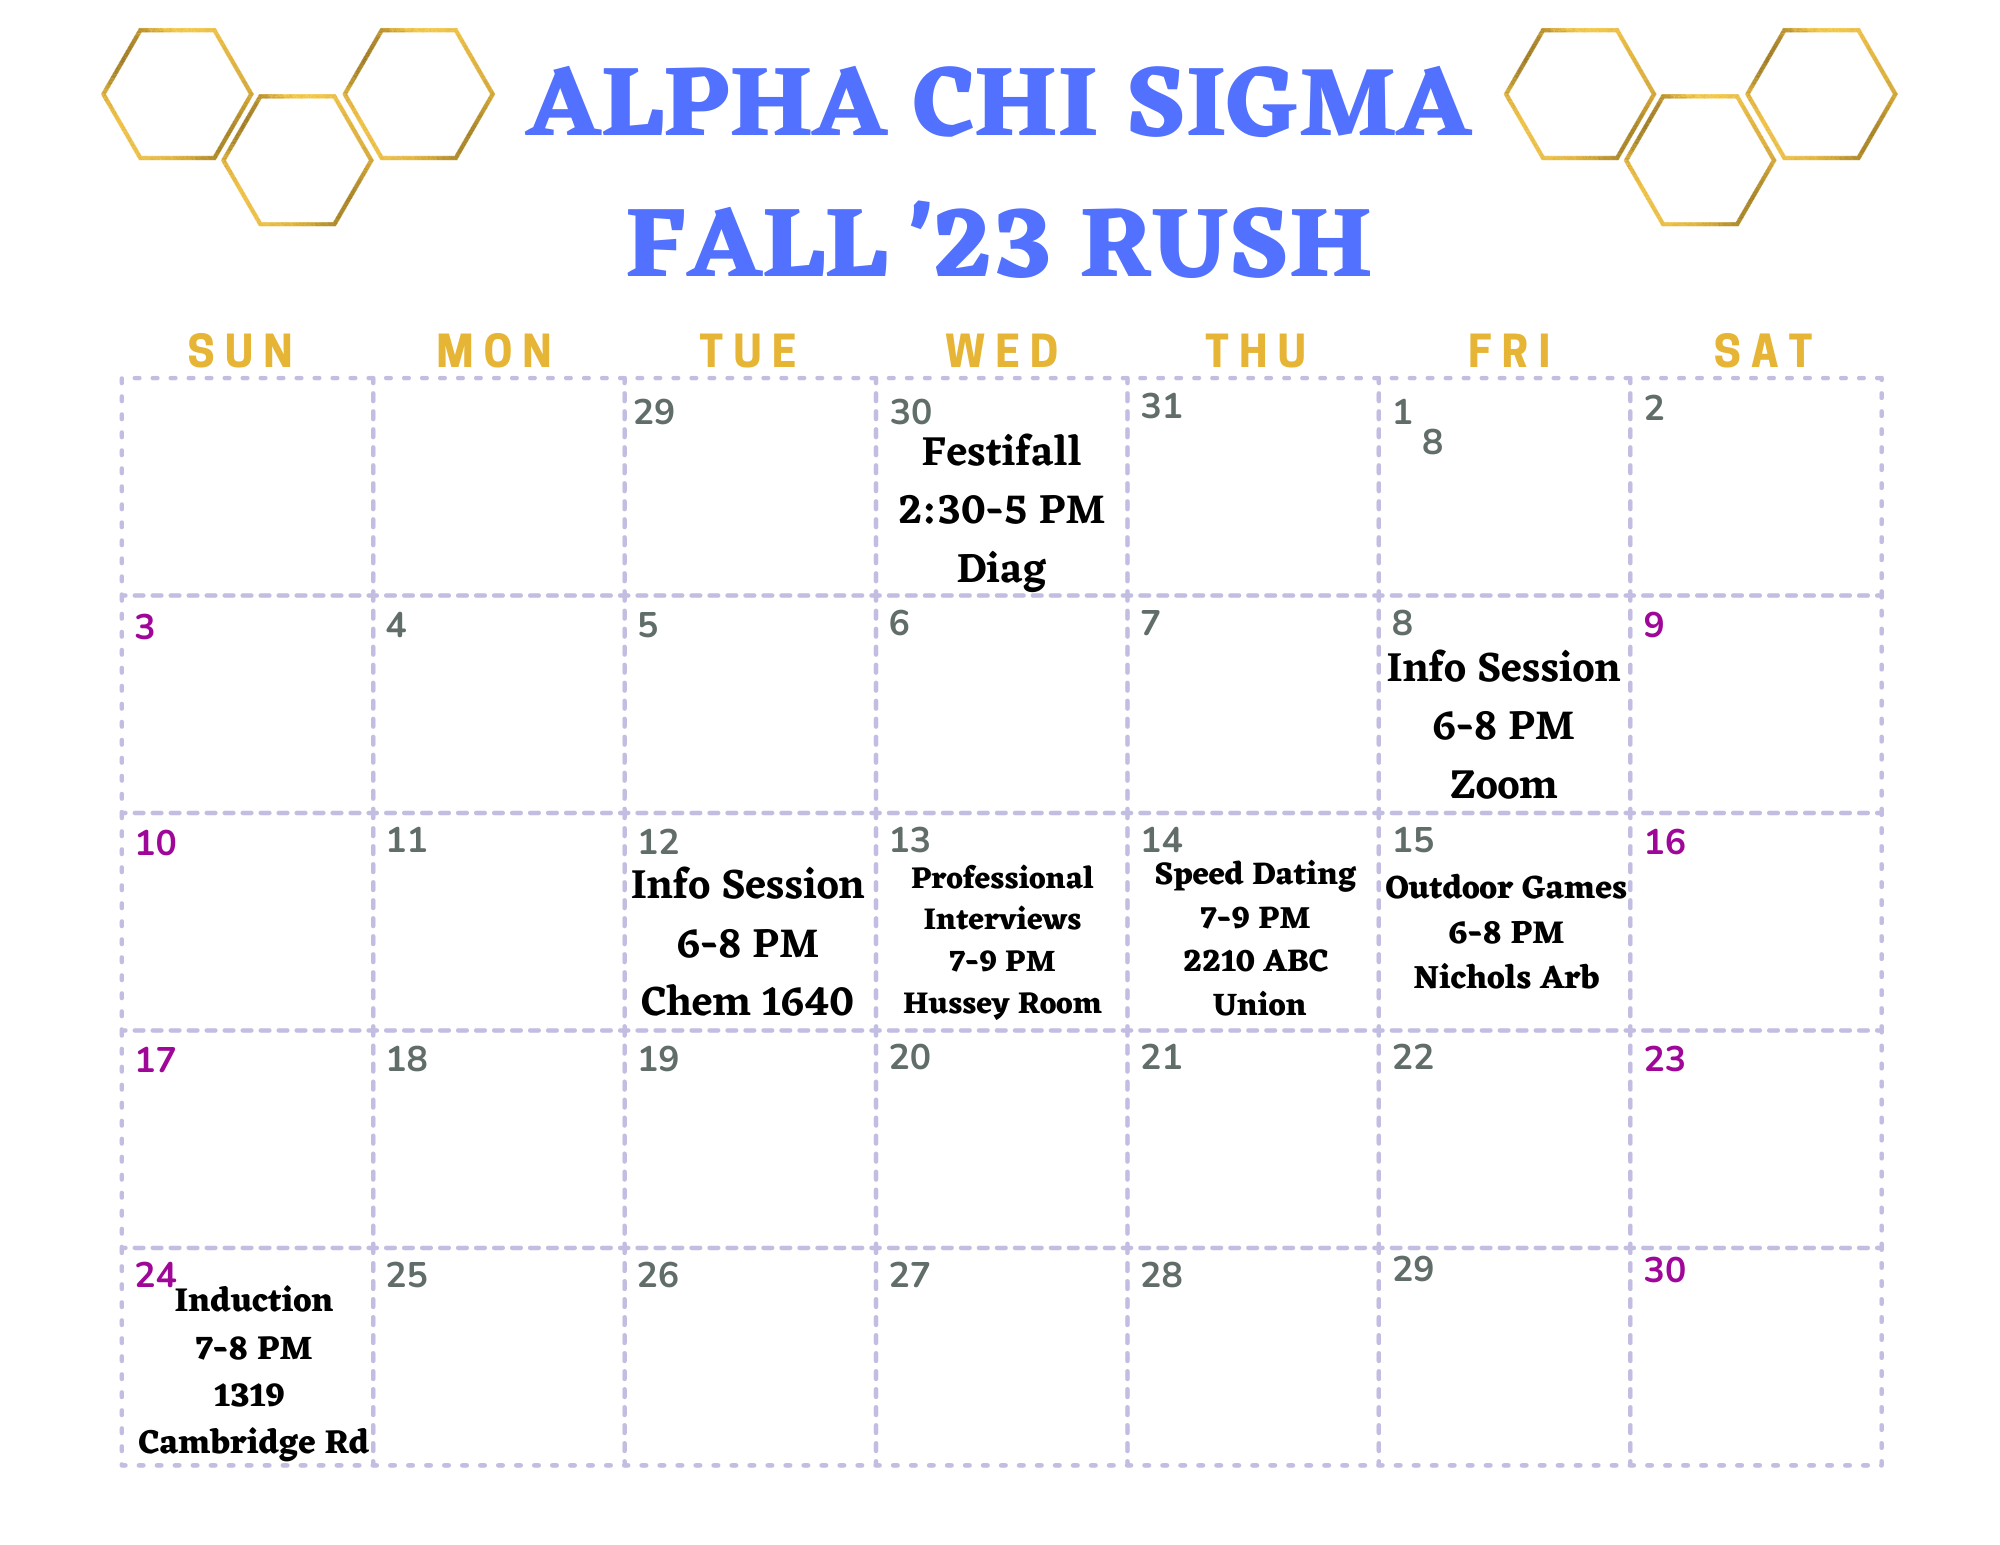
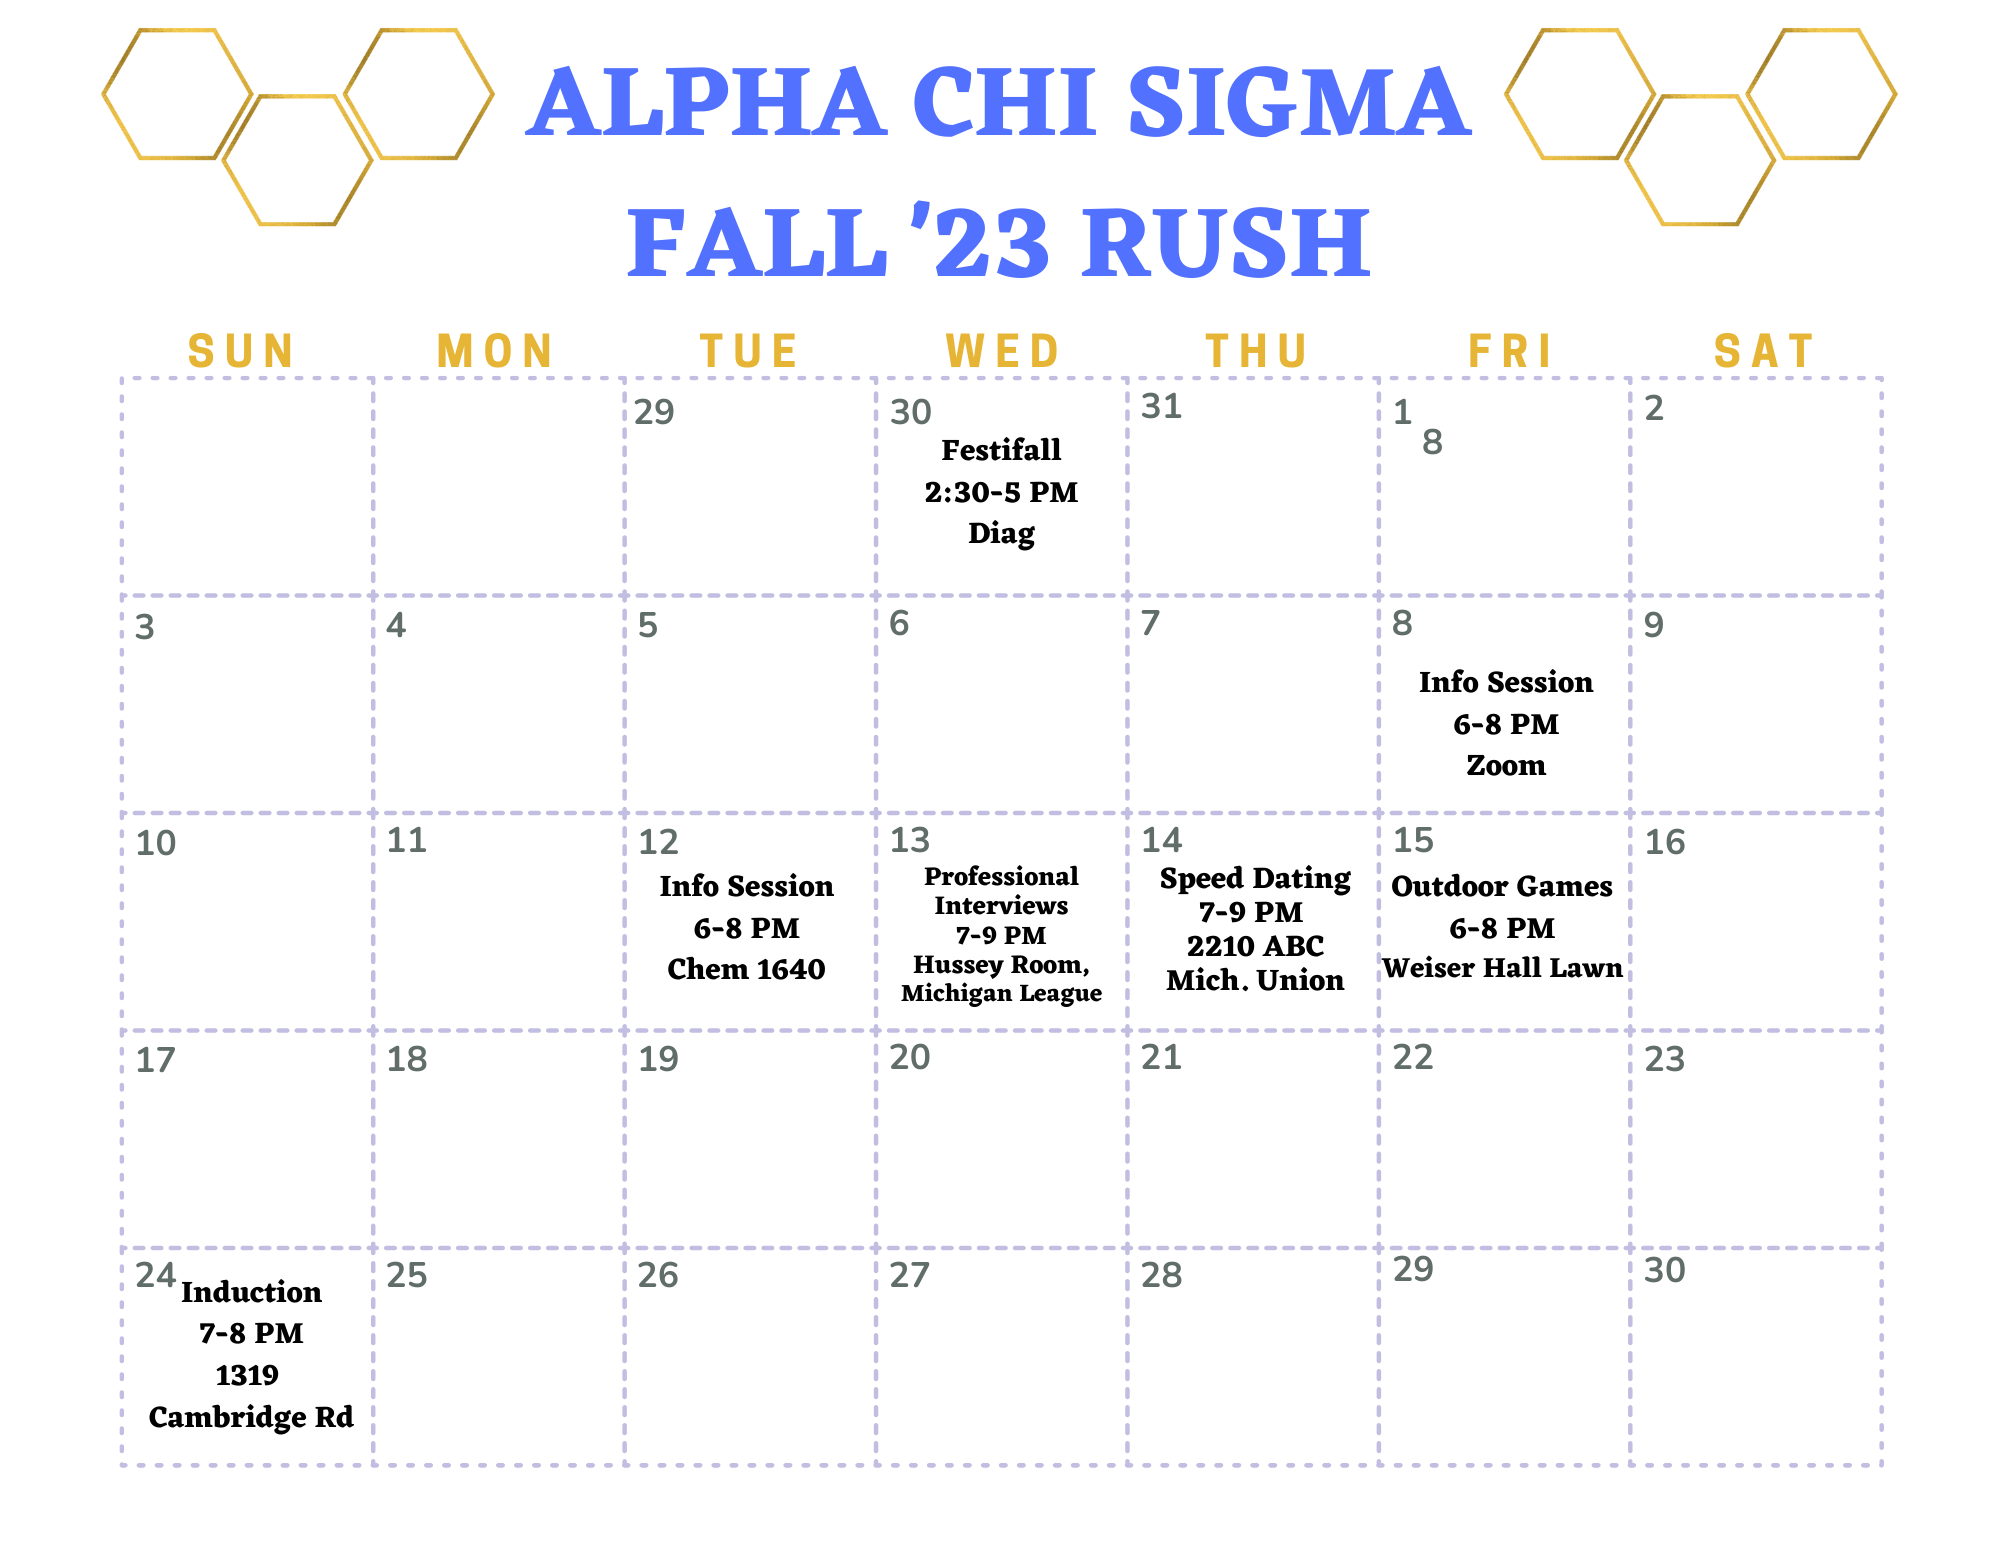
not sure when i changed this LOL

diff --git a/index.html b/index.html
@@ -77,6 +77,16 @@
 
         </div>
 
+        <div id="about_paragraph">
+            <h3>
+                Alpha Chi Sigma is a co-ed professional chemistry fraternity that strives to promote chemistry and other sciences. Founded in 1902, the fraternity has grown to over 70,000 members and continues to connect students and professionals in chemistry-related fields. 
+                <br>
+                <br>
+                
+                Our chapter, Alpha Beta, was founded in 1916. Since then, we have been committed to professional development, community service, and lifelong brotherhood. Our chapter offers numerous opportunities including coaching at local schools and FEMMES, volunteering at Ronald McDonald House, and coordinating various professional development workshops.
+            </h3>
+        </div>
+
         <div id="Rush_section">
 
             <div>
@@ -86,7 +96,7 @@
 
 
             <div class="calendar">
-                <img src="images/rush_calendar_2023.png">
+                <img src="images/AXE_Rush_Calendar_F23.png">
             </div>
 
             

diff --git a/css/index.css b/css/index.css
@@ -53,7 +53,7 @@ main {
   flex-wrap: wrap;
   margin: auto;
   justify-content: center;
-  padding-bottom: 5%;
+  /* padding-bottom: 5%; */
 
 }
 
@@ -207,7 +207,13 @@ main {
 }
 
 
-
+#about_paragraph {
+  width: 75%;
+  text-align: center;
+  margin: auto;
+  padding-top: 2%;
+  padding-bottom: 5%;
+}
 
 @media screen and (max-width: 768px) {
 
@@ -219,4 +225,9 @@ main {
     display: none;
   }
 
+  h3 {
+    font-size: 100%;
+  }
+
 }
+
